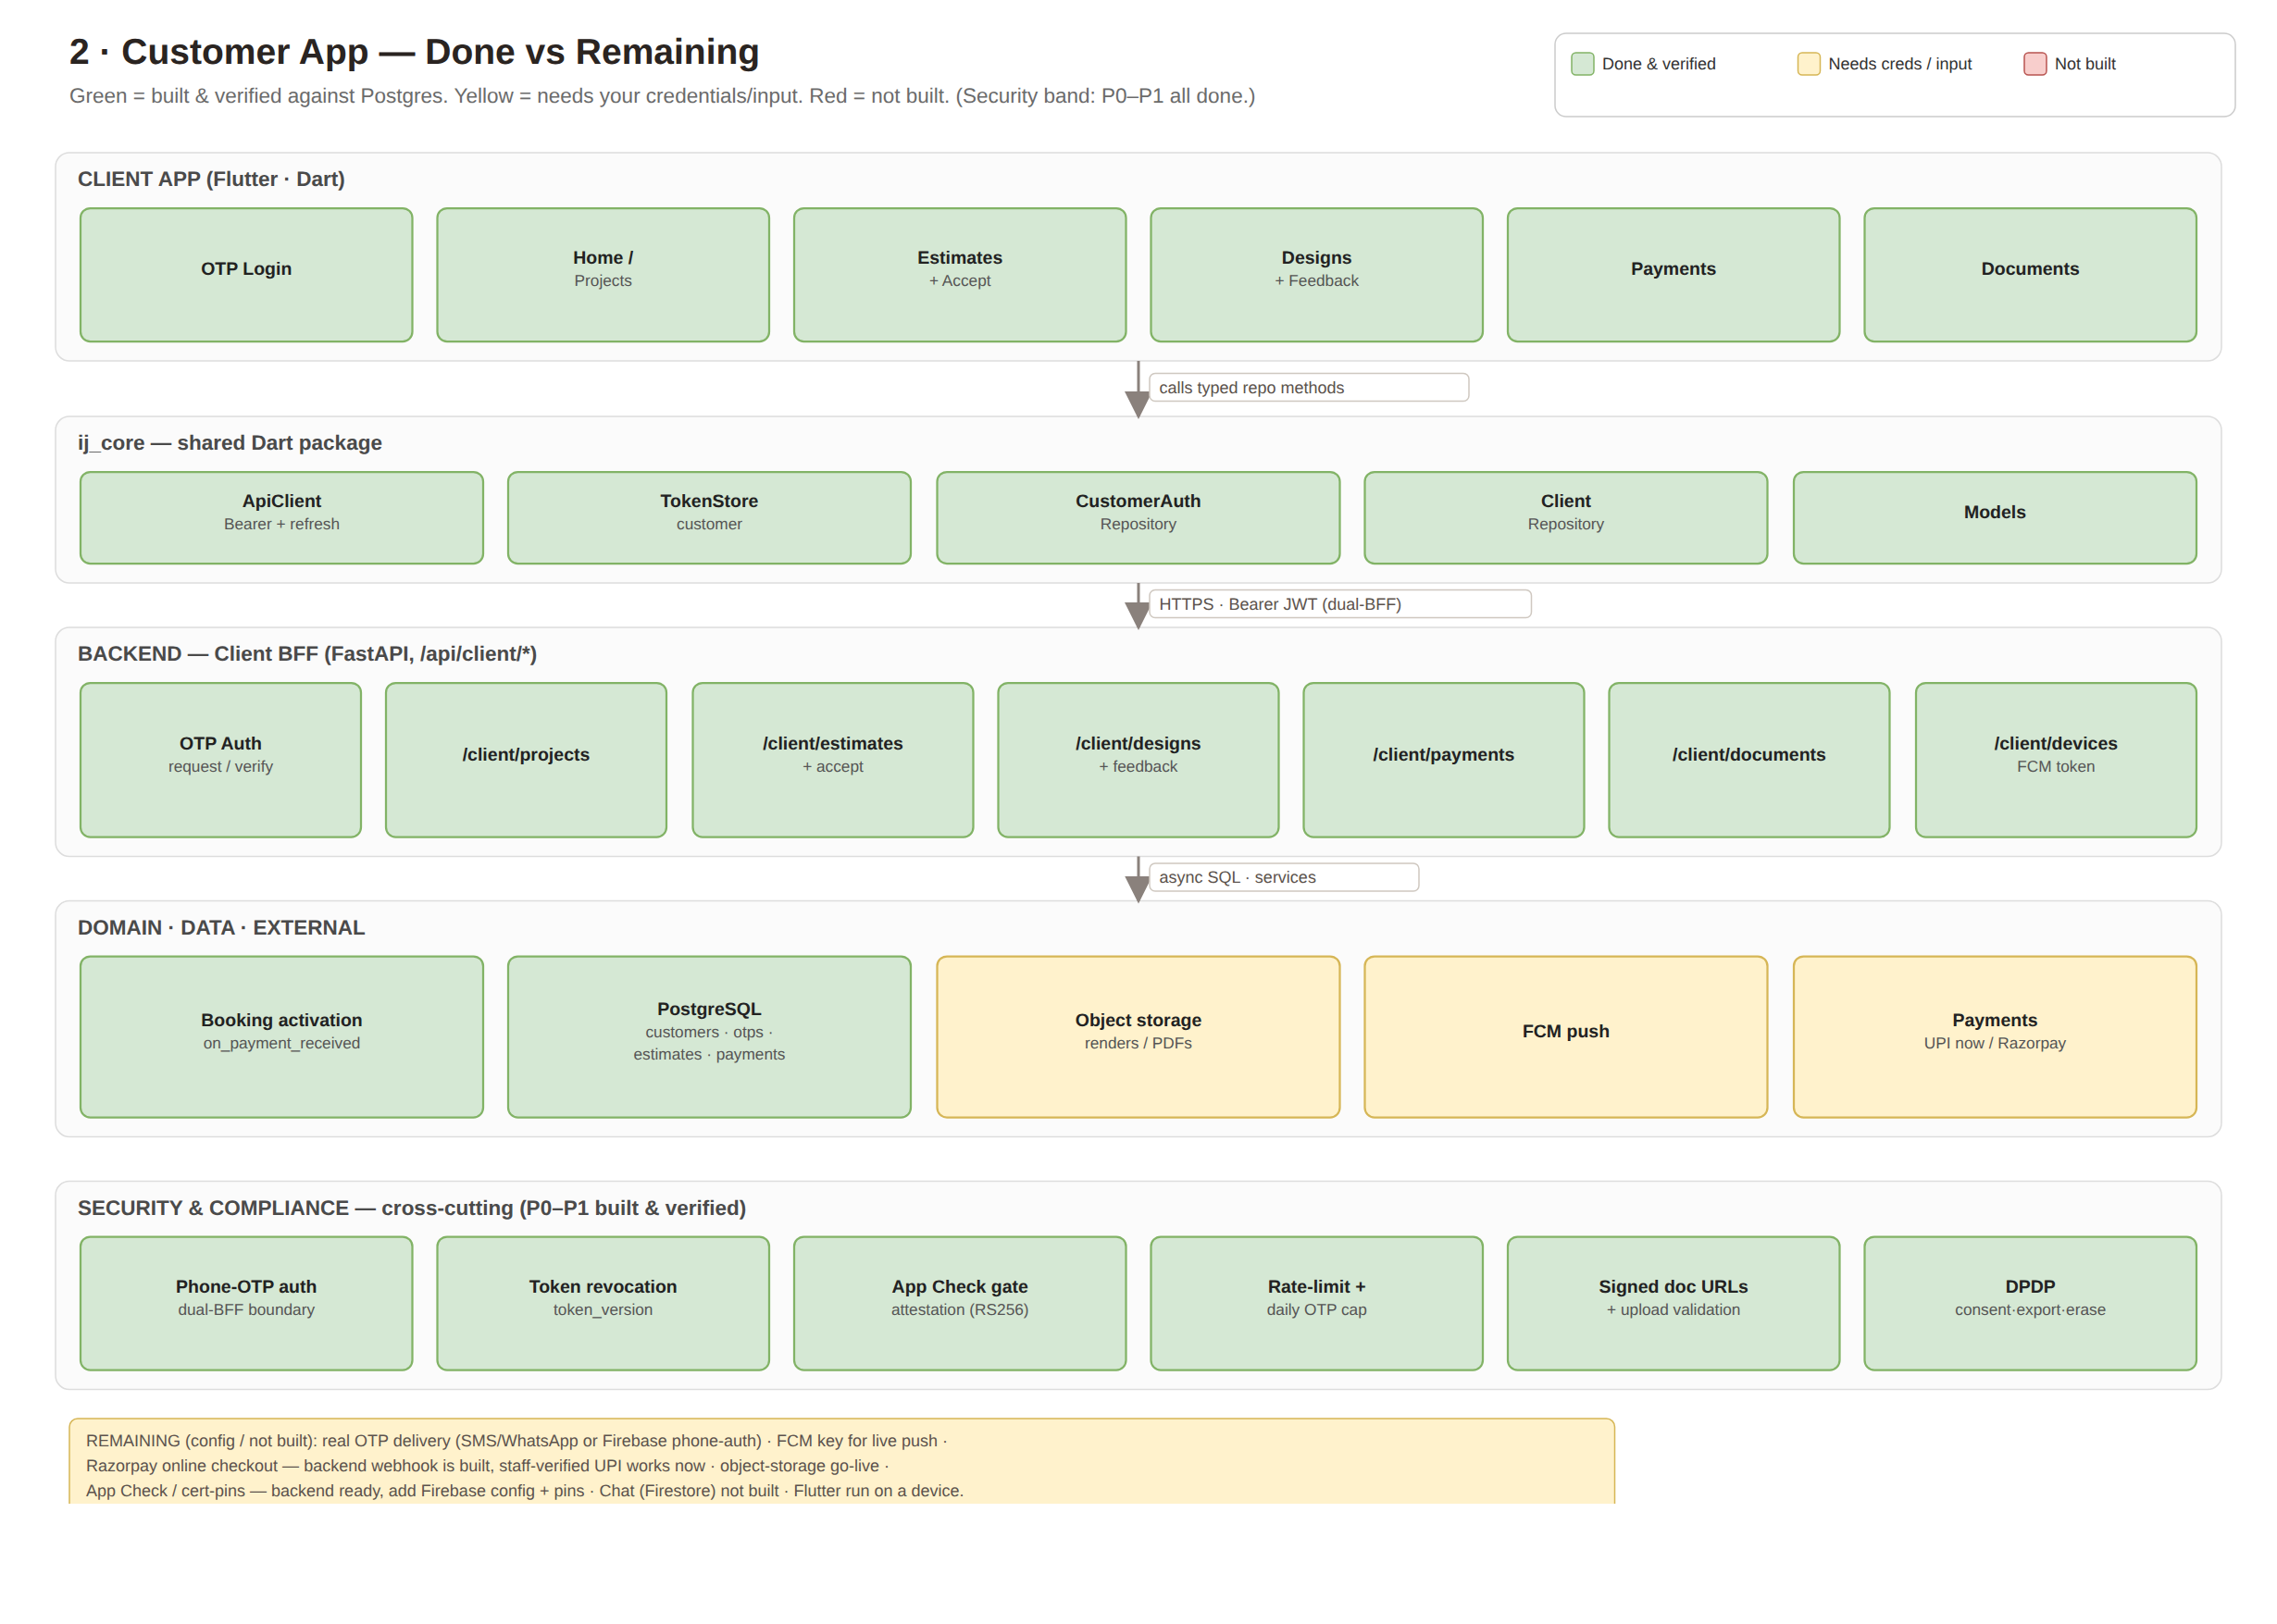
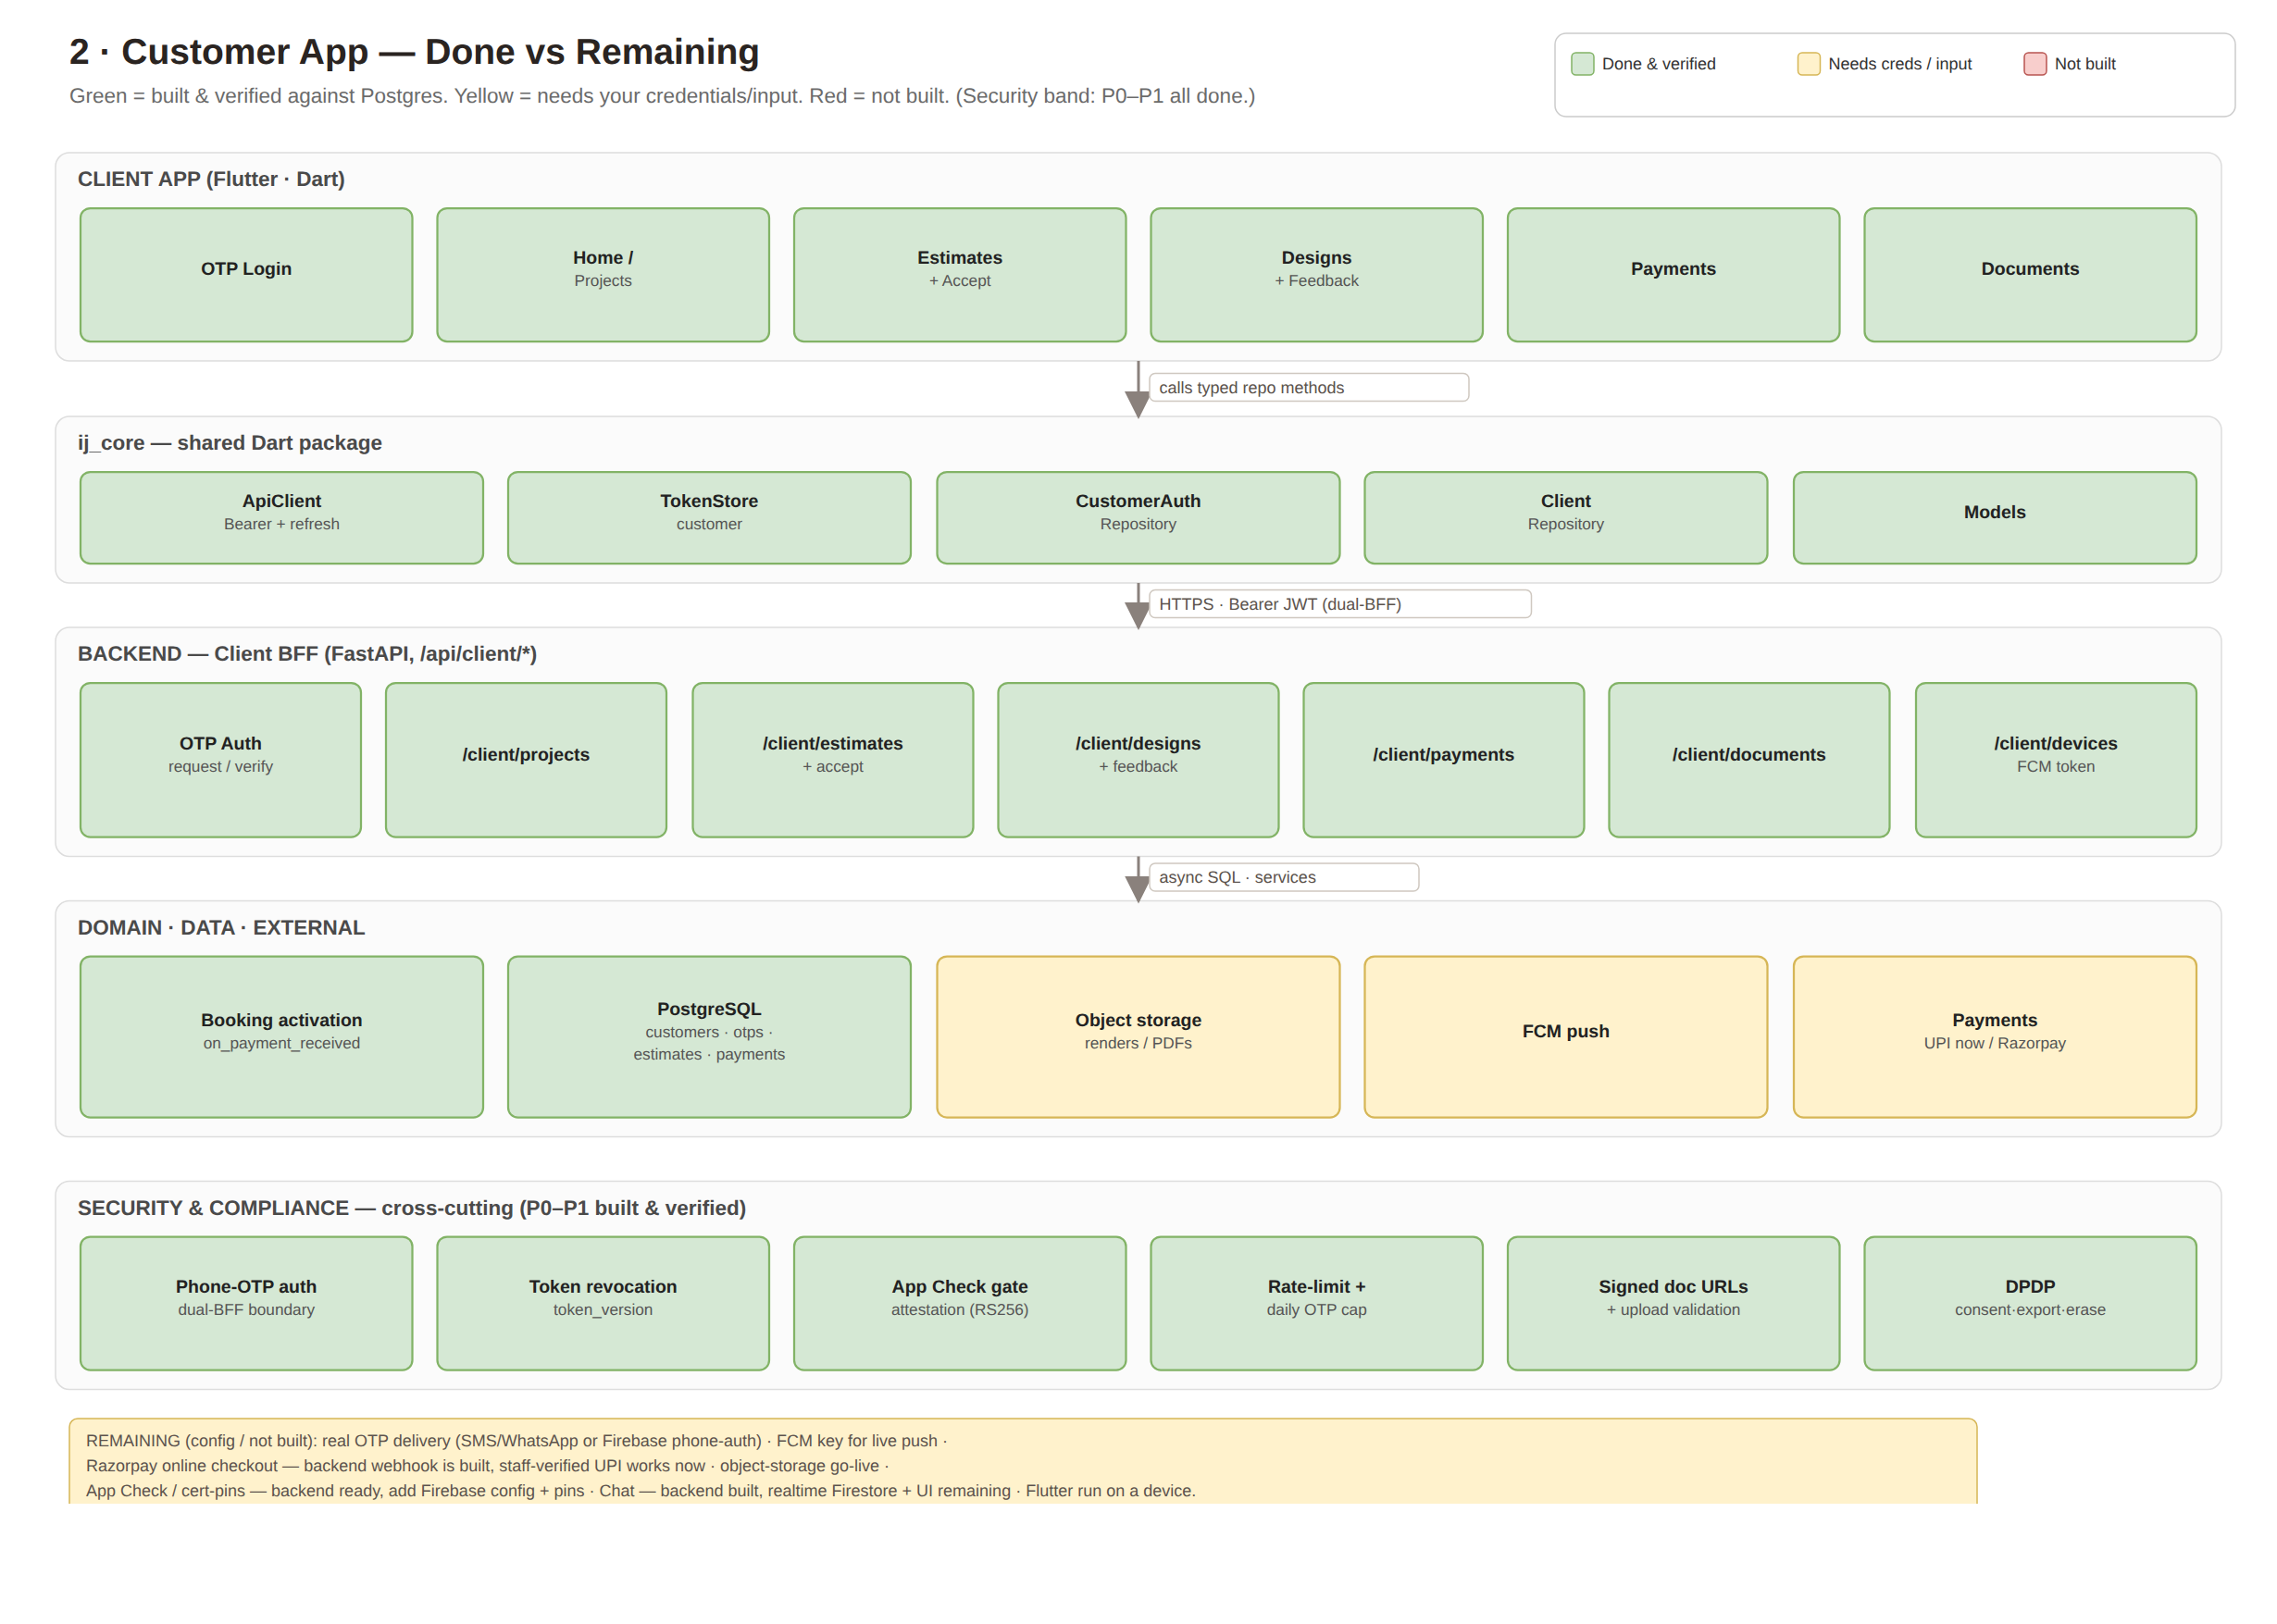
docs(diagrams): Chat backend now built (progress notes)
Claude-Session: https://claude.ai/code/session_018WJoZH6UXjthewAHFzPoC8

Changed region(s): [[0.7106, 0.8615, 0.8959, 0.9231], [0.278, 0.8923, 0.5252, 0.9231]]

diff --git a/docs/mobile-apps/diagrams/gen.py b/docs/mobile-apps/diagrams/gen.py
@@ -250,7 +250,7 @@ write("2_customer_app_progress", {
     "notes": [(
         "REMAINING (config / not built):  real OTP delivery (SMS/WhatsApp or Firebase phone-auth) · FCM key for live push ·\n"
         "Razorpay online checkout — backend webhook is built, staff-verified UPI works now · object-storage go-live ·\n"
-        "App Check / cert-pins — backend ready, add Firebase config + pins · Chat (Firestore) not built · Flutter run on a device.", 50, 1022, YELLOW)],
+        "App Check / cert-pins — backend ready, add Firebase config + pins · Chat — backend built, realtime Firestore + UI remaining · Flutter run on a device.", 50, 1022, YELLOW)],
 })
 
 # 3. Company complete
@@ -269,6 +269,6 @@ write("4_employee_app_progress", {
     "notes": [(
         "REMAINING (config / not built):  camera QR scan — drop-in ready, needs a device; manual entry works · Infurnia real QR ingest (paste works) ·\n"
         "pricing Excel for the estimate engine · FCM key for live push · mobile FLAG_SECURE / manifest / obfuscation config ·\n"
-        "Chat (not built) · Flutter compile / run on a device.", 50, 1022, YELLOW)],
+        "Chat — backend built, realtime Firestore + UI remaining · Flutter compile / run on a device.", 50, 1022, YELLOW)],
 })
 print("done")